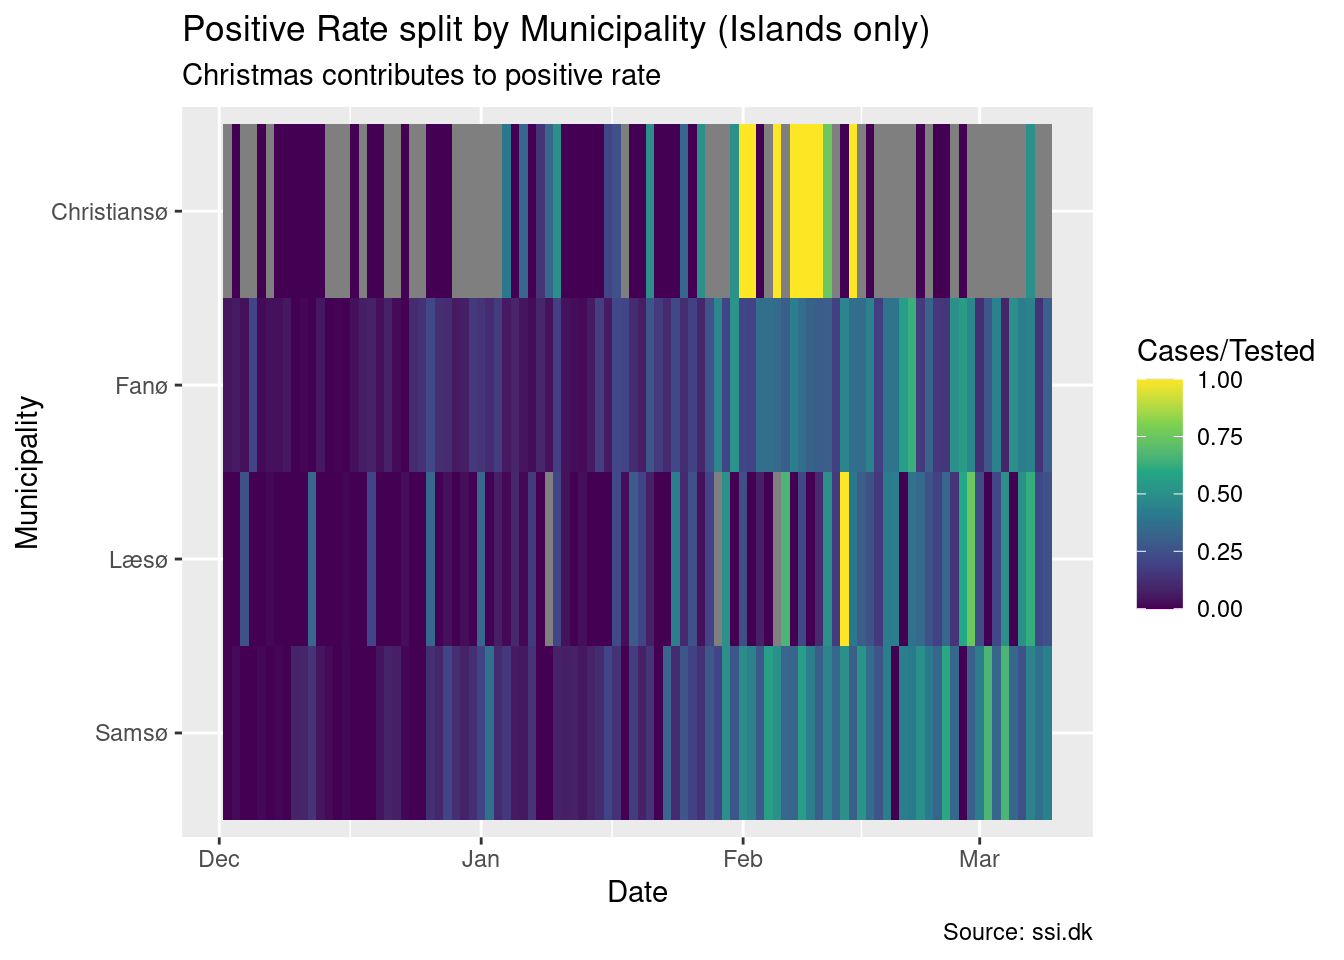
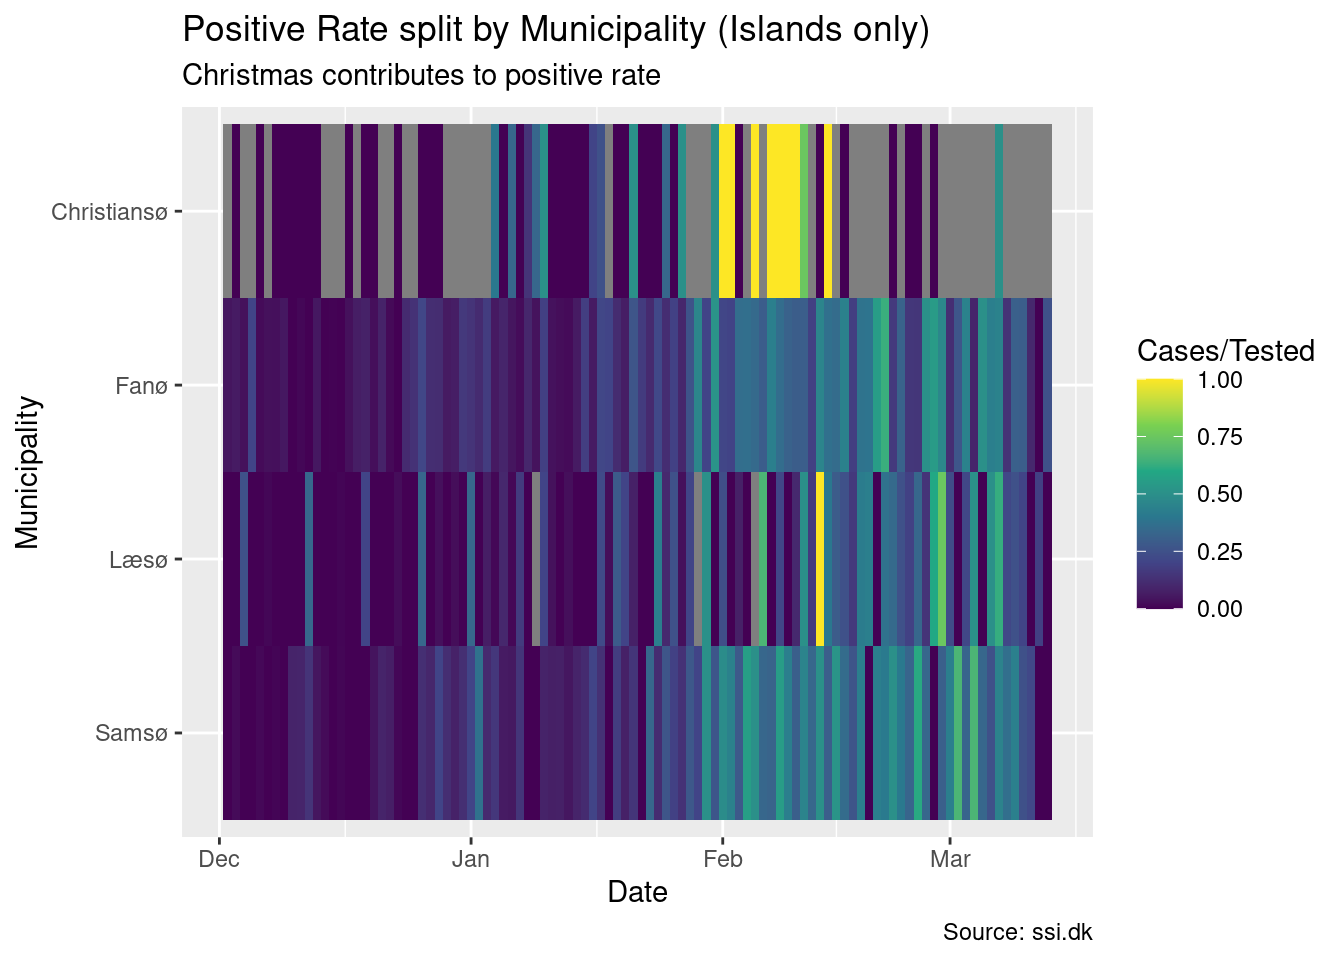
2022-03-15.

Changed region(s): [[0.25, 0.125, 0.7812, 0.9062], [0.2188, 0.5, 0.2812, 0.6875], [0.1875, 0.125, 0.2188, 0.3125]]

diff --git a/docs/index.html b/docs/index.html
@@ -10,7 +10,7 @@
 
 
 
-<meta name="date" content="2022-03-11" />
+<meta name="date" content="2022-03-15" />
 
 <title>Covid-19 Stats for Denmark</title>
 
@@ -261,7 +261,7 @@ $(document).ready(function () {
 
 
 <h1 class="title toc-ignore">Covid-19 Stats for Denmark</h1>
-<h4 class="date">2022-03-11</h4>
+<h4 class="date">2022-03-15</h4>
 
 </div>
 
@@ -308,7 +308,7 @@ $(document).ready(function () {
 <pre class="r"><code>library(tidyverse)
 library(lubridate)</code></pre>
 <p>SSI’s data is in a zip file. We unpack this zip file into a directory of the general form <code>YYYY-MM-DD</code>. Lets set up a name for the current directory we want to grab data from</p>
-<pre class="r"><code>date &lt;- &quot;2022-03-11&quot;</code></pre>
+<pre class="r"><code>date &lt;- &quot;2022-03-15&quot;</code></pre>
 </div>
 <div id="ingesting-data" class="section level2">
 <h2>Ingesting data</h2>
@@ -350,7 +350,7 @@ library(lubridate)</code></pre>
                                       ))</code></pre>
 <pre><code>## ℹ Using &quot;&#39;,&#39;&quot; as decimal and &quot;&#39;.&#39;&quot; as grouping mark. Use `read_delim()` for more control.</code></pre>
 <pre class="r"><code>data</code></pre>
-<pre><code>## # A tibble: 7,095 × 9
+<pre><code>## # A tibble: 7,129 × 9
 ##    Region      Prøvetagningsdato Køn   `Bekræftede tilfælde…`  Døde Indlæggelser
 ##    &lt;fct&gt;       &lt;date&gt;            &lt;fct&gt;                  &lt;dbl&gt; &lt;dbl&gt;        &lt;dbl&gt;
 ##  1 Sjælland    2020-02-26        M                          1     0            0
@@ -363,7 +363,7 @@ library(lubridate)</code></pre>
 ##  8 Hovedstaden 2020-03-03        F                          1     0            0
 ##  9 Hovedstaden 2020-03-03        M                          3     0            1
 ## 10 Hovedstaden 2020-03-04        M                          2     0            0
-## # … with 7,085 more rows, and 3 more variables: `Kummuleret antal døde` &lt;dbl&gt;,
+## # … with 7,119 more rows, and 3 more variables: `Kummuleret antal døde` &lt;dbl&gt;,
 ## #   `Kummuleret antal bekræftede tilfælde` &lt;dbl&gt;,
 ## #   `Kummuleret antal indlæggelser` &lt;dbl&gt;</code></pre>
 <p>We certainly don’t want to work with danish-named columns. Rather, we want small descriptive names which are easy to type. We send our dataset through a <code>rename</code> pass for this.</p>
@@ -378,7 +378,7 @@ library(lubridate)</code></pre>
 # Cut the cumulative columns away
 data &lt;- data %&gt;% select(region, date, gender, cases, deaths, hospitalizations)
 data</code></pre>
-<pre><code>## # A tibble: 7,095 × 6
+<pre><code>## # A tibble: 7,129 × 6
 ##    region      date       gender cases deaths hospitalizations
 ##    &lt;fct&gt;       &lt;date&gt;     &lt;fct&gt;  &lt;dbl&gt;  &lt;dbl&gt;            &lt;dbl&gt;
 ##  1 Sjælland    2020-02-26 M          1      0                0
@@ -391,7 +391,7 @@ data</code></pre>
 ##  8 Hovedstaden 2020-03-03 F          1      0                0
 ##  9 Hovedstaden 2020-03-03 M          3      0                1
 ## 10 Hovedstaden 2020-03-04 M          2      0                0
-## # … with 7,085 more rows</code></pre>
+## # … with 7,119 more rows</code></pre>
 <p>Provide a low cut-off. We are interested in the recent period with Omicron, rather than the full duration of Covid-19.</p>
 <pre class="r"><code>lo_cutoff &lt;- &#39;2021-09-01&#39;</code></pre>
 <p>The high end of that cutoff, we set to two days before the maximal date in our data set</p>
@@ -405,7 +405,7 @@ data</code></pre>
 # Put this into the summary
 summary &lt;- data
 summary</code></pre>
-<pre><code>## # A tibble: 1,890 × 6
+<pre><code>## # A tibble: 1,930 × 6
 ##    region      date       gender cases deaths hospitalizations
 ##    &lt;fct&gt;       &lt;date&gt;     &lt;fct&gt;  &lt;dbl&gt;  &lt;dbl&gt;            &lt;dbl&gt;
 ##  1 Hovedstaden 2021-09-01 F        215      0                7
@@ -418,7 +418,7 @@ summary</code></pre>
 ##  8 Nordjylland 2021-09-01 M         16      1                2
 ##  9 Sjælland    2021-09-01 M         39      0                3
 ## 10 Syddanmark  2021-09-01 M         41      0                1
-## # … with 1,880 more rows</code></pre>
+## # … with 1,920 more rows</code></pre>
 </div>
 <div id="weekly-key-figures-split-by-age" class="section level3">
 <h3>Weekly key figures split by age</h3>
@@ -443,7 +443,7 @@ summary</code></pre>
                         tested = &#39;Antal testede&#39;,
                         cases = &#39;Antal positive&#39;)
 data</code></pre>
-<pre><code>## # A tibble: 967 × 7
+<pre><code>## # A tibble: 976 × 7
 ##    week     ageGroup tested_100k cases_100k hospitalized_100k tested cases
 ##    &lt;chr&gt;    &lt;fct&gt;          &lt;dbl&gt;      &lt;dbl&gt;             &lt;dbl&gt;  &lt;dbl&gt; &lt;dbl&gt;
 ##  1 2020-W04 00-02              0          0                 0      0     0
@@ -456,7 +456,7 @@ data</code></pre>
 ##  8 2020-W04 65-79              0          0                 0      0     0
 ##  9 2020-W04 80+                0          0                 0      0     0
 ## 10 2020-W05 65-79              0          0                 0      1     0
-## # … with 957 more rows</code></pre>
+## # … with 966 more rows</code></pre>
 <p>Take a look at the <code>week</code> column. It reports a year, and a week number. We’ll need to handle this, by converting this into a date. We’ll do that by defining a fixup function. If we have a string such as <code>2020-W04</code>, it means the 4th week of 2020. To get a date, we need a day inside the week to use as the day-of-week. So we turn the string into <code>2020-W04-1</code>, then send it through <code>strptime()</code>, a general time-parsing function.</p>
 <pre class="r"><code>fixup_week &lt;- function(s) {
     # For strptime to do its work correctly, it must know a day of the week. Here, we
@@ -509,15 +509,15 @@ data</code></pre>
 ##     lau1 name       `Bekræftede ti…` Incidens cases incidence tested tested_100k
 ##    &lt;dbl&gt; &lt;fct&gt;                 &lt;dbl&gt;    &lt;dbl&gt; &lt;dbl&gt;     &lt;dbl&gt;  &lt;dbl&gt;       &lt;dbl&gt;
 ##  1   411 &quot;&quot;                        0       NA     0        0      93      102000
-##  2   101 &quot;Københav…           357777    55753  7189     1120  658962      103000
-##  3   147 &quot;Frederik…            55149    53402  1331     1289  112596      109000
-##  4   151 &quot;Ballerup&quot;            26562    53893   724     1469   50263      102000
-##  5   153 &quot;Brøndby&quot;             20196    56594   355      995.  36327      102000
-##  6   155 &quot;Dragør&quot;               7691    52779   182     1249   14597      100000
-##  7   157 &quot;Gentofte&quot;            37914    51263   925     1251   76344      103000
-##  8   159 &quot;Gladsaxe&quot;            37470    54173   894     1293   72390      105000
-##  9   161 &quot;Glostrup&quot;            12746    54421   265     1131   24495      105000
-## 10   163 &quot;Herlev&quot;              16345    56777   385     1337   29894      104000
+##  2   101 &quot;Københav…           360089    56114  6018      938. 659290      103000
+##  3   147 &quot;Frederik…            55551    53791  1079     1045  112669      109000
+##  4   151 &quot;Ballerup&quot;            26772    54319   539     1094   50286      102000
+##  5   153 &quot;Brøndby&quot;             20352    57031   308      863.  36358      102000
+##  6   155 &quot;Dragør&quot;               7780    53390   158     1084   14603      100000
+##  7   157 &quot;Gentofte&quot;            38158    51593   730      987   76383      103000
+##  8   159 &quot;Gladsaxe&quot;            37708    54517   688      995.  72423      105000
+##  9   161 &quot;Glostrup&quot;            12861    54912   250     1067   24523      105000
+## 10   163 &quot;Herlev&quot;              16509    57347   333     1157   29915      104000
 ## # … with 89 more rows, and 3 more variables: tested_1w &lt;dbl&gt;,
 ## #   tested_100k_1w &lt;dbl&gt;, population &lt;dbl&gt;</code></pre>
 <pre class="r"><code>muncipalities &lt;- data</code></pre>
@@ -699,21 +699,21 @@ muncipalities$incidence_type &lt;- ifelse(muncipalities$incidence_z &lt; 0, &quo
 muncipalities$rate_z &lt;- round(muncipalities$rate - mean(muncipalities$rate), 5)
 muncipalities$rate_type &lt;- ifelse(muncipalities$rate_z &lt; 0, &quot;Below mean&quot;, &quot;Above mean&quot;)
 muncipalities$rate</code></pre>
-<pre><code>##  [1] 0.0000000 0.2297025 0.2569498 0.2380013 0.1919957 0.2219512 0.2477236
-##  [8] 0.2389097 0.1938552 0.2224148 0.2124814 0.2166499 0.1961276 0.2699900
-## [15] 0.2192586 0.1650718 0.2308020 0.2000000 0.2631820 0.2472989 0.2310406
-## [22] 0.2413574 0.2389477 0.2468588 0.2496811 0.2739828 0.2806822 0.2495310
-## [29] 0.2619624 0.2610504 0.2756871 0.2699681 0.2492594 0.3049918 0.2838725
-## [36] 0.2809195 0.3349118 0.3147268 0.2492857 0.2631126 0.3033233 0.2591864
-## [43] 0.2126210 0.2601593 0.2419920 0.2800462 0.2589862 0.2946809 0.3611765
-## [50] 0.3344401 0.3172257 0.2694737 0.2659446 0.2843137 0.3202247 0.3437908
-## [57] 0.3528529 0.3068381 0.3220339 0.2630290 0.3159521 0.3349705 0.2948207
-## [64] 0.3686604 0.3645694 0.2791487 0.2768087 0.3476342 0.3148337 0.3235547
-## [71] 0.3509985 0.3275252 0.4154663 0.3600289 0.3208923 0.3719893 0.3334413
-## [78] 0.3312846 0.3384451 0.3390210 0.4325843 0.3397401 0.3153484 0.3599222
-## [85] 0.3918379 0.3522484 0.3478261 0.3620302 0.3635526 0.3470290 0.3505386
-## [92] 0.3366683 0.3276776 0.2584270 0.3587553 0.3523768 0.3610354 0.3180609
-## [99] 0.3342161</code></pre>
+<pre><code>##  [1] 0.0000000 0.2144843 0.2389812 0.1970750 0.1770115 0.2237960 0.2209443
+##  [8] 0.2065446 0.1957713 0.2065757 0.2106061 0.1772537 0.1821024 0.2562738
+## [15] 0.1957203 0.1530945 0.2110228 0.1982544 0.2432575 0.2309879 0.2174125
+## [22] 0.2293640 0.2128244 0.2330335 0.2336656 0.2536356 0.2501030 0.2221298
+## [29] 0.2266395 0.2209502 0.2495238 0.2222222 0.2360577 0.2870006 0.2626656
+## [36] 0.2866208 0.3200732 0.3097726 0.2370022 0.2389381 0.2942359 0.2552574
+## [43] 0.2037511 0.2337366 0.2308620 0.2808475 0.2614355 0.2806227 0.3160355
+## [50] 0.3238129 0.2881016 0.2643849 0.2442018 0.2616921 0.2977049 0.3369231
+## [57] 0.3915547 0.2914420 0.3122901 0.2494226 0.2924489 0.3154781 0.2644231
+## [64] 0.3372268 0.3221406 0.2758534 0.2663827 0.3043569 0.2802330 0.2944360
+## [71] 0.3329519 0.2889833 0.3712737 0.3463882 0.3037608 0.3509590 0.3102246
+## [78] 0.2770468 0.3085150 0.3129504 0.3734177 0.3025129 0.2851486 0.3500000
+## [85] 0.3709987 0.3210432 0.3457312 0.3196941 0.3352133 0.3128660 0.3209424
+## [92] 0.3111441 0.3001319 0.2582781 0.3202329 0.3196763 0.3429027 0.2929942
+## [99] 0.2945879</code></pre>
 <pre class="r"><code>ggplot(muncipalities %&gt;% mutate(name = fct_reorder(name, rate)), aes(x=name, y=rate)) +
   geom_bar(stat=&#39;identity&#39;, aes(fill=rate_type), width=.5)  +
   scale_colour_brewer(palette=&quot;Set2&quot;) +
@@ -773,15 +773,15 @@ popcount</code></pre>
 ##    name            incidence popcount
 ##    &lt;chr&gt;               &lt;dbl&gt;    &lt;dbl&gt;
 ##  1 &quot;&quot;                     0        NA
-##  2 &quot;København&quot;         1120    644987
-##  3 &quot;Frederiksberg&quot;     1289    103963
-##  4 &quot;Ballerup&quot;          1469     49228
-##  5 &quot;Brøndby&quot;            995.    35535
-##  6 &quot;Dragør&quot;            1249     14602
-##  7 &quot;Gentofte&quot;          1251     74154
-##  8 &quot;Gladsaxe&quot;          1293     69321
-##  9 &quot;Glostrup&quot;          1131     23519
-## 10 &quot;Herlev&quot;            1337     28861
+##  2 &quot;København&quot;          938.   644987
+##  3 &quot;Frederiksberg&quot;     1045    103963
+##  4 &quot;Ballerup&quot;          1094     49228
+##  5 &quot;Brøndby&quot;            863.    35535
+##  6 &quot;Dragør&quot;            1084     14602
+##  7 &quot;Gentofte&quot;           987     74154
+##  8 &quot;Gladsaxe&quot;           995.    69321
+##  9 &quot;Glostrup&quot;          1067     23519
+## 10 &quot;Herlev&quot;            1157     28861
 ## # … with 89 more rows</code></pre>
 <p>Now, test correlation via Pearson:</p>
 <pre class="r"><code>plot(muncipalities$incidence, muncipalities$popcount)</code></pre>
@@ -791,13 +791,13 @@ popcount</code></pre>
 ##  Pearson&#39;s product-moment correlation
 ## 
 ## data:  muncipalities$incidence and muncipalities$popcount
-## t = -1.5399, df = 92, p-value = 0.127
+## t = -1.6806, df = 92, p-value = 0.09624
 ## alternative hypothesis: true correlation is not equal to 0
 ## 95 percent confidence interval:
-##  -0.3498924  0.0455674
+##  -0.36252268  0.03112281
 ## sample estimates:
 ##        cor 
-## -0.1585131</code></pre>
+## -0.1725825</code></pre>
 <p>Clearly, this argues there are no strong connection between population count, and the incidence in a given muncipality.</p>
 <p>Analyzing the rate shows there’s a connection between it and incidence, but this is more expected:</p>
 <pre class="r"><code>pairs(muncipalities %&gt;% select(incidence,popcount,rate))</code></pre>
@@ -807,17 +807,17 @@ popcount</code></pre>
 ##  Pearson&#39;s product-moment correlation
 ## 
 ## data:  muncipalities$incidence and muncipalities$rate
-## t = 13.767, df = 97, p-value &lt; 2.2e-16
+## t = 14.823, df = 97, p-value &lt; 2.2e-16
 ## alternative hypothesis: true correlation is not equal to 0
 ## 95 percent confidence interval:
-##  0.7336920 0.8708902
+##  0.7605513 0.8848312
 ## sample estimates:
 ##       cor 
-## 0.8133051</code></pre>
+## 0.8329087</code></pre>
 <p>Summarize:</p>
 <pre class="r"><code>summary(muncipalities$rate)</code></pre>
 <pre><code>##    Min. 1st Qu.  Median    Mean 3rd Qu.    Max. 
-##  0.0000  0.2494  0.2843  0.2909  0.3376  0.4326</code></pre>
+##  0.0000  0.2309  0.2770  0.2701  0.3126  0.3916</code></pre>
 <pre class="r"><code>d &lt;- density(muncipalities$rate)
 plot(d)</code></pre>
 <p><img src="index_files/figure-html/muncipality-summary-1.png" width="672" /></p>

diff --git a/docs/core.html b/docs/core.html
@@ -10,7 +10,7 @@
 
 
 
-<meta name="date" content="2022-03-11" />
+<meta name="date" content="2022-03-15" />
 
 <title>Core Covid-19 Stats for Denmark</title>
 
@@ -261,7 +261,7 @@ $(document).ready(function () {
 
 
 <h1 class="title toc-ignore">Core Covid-19 Stats for Denmark</h1>
-<h4 class="date">2022-03-11</h4>
+<h4 class="date">2022-03-15</h4>
 
 </div>
 
@@ -325,7 +325,7 @@ rt_cases</code></pre>
 <pre class="r"><code>m_cases_timeseries_path &lt;- sprintf(&quot;%s/Municipality_cases_time_series.csv&quot;, path)
 m_cases_timeseries &lt;- readr::read_csv2(m_cases_timeseries_path)
 m_cases_timeseries</code></pre>
-<pre><code>## # A tibble: 744 × 101
+<pre><code>## # A tibble: 748 × 101
 ##    SampleDate Roskilde Copenhagen Aarhus Frederiksberg Kalundborg Middelfart
 ##    &lt;date&gt;        &lt;dbl&gt;      &lt;dbl&gt;  &lt;dbl&gt;         &lt;dbl&gt;      &lt;dbl&gt;      &lt;dbl&gt;
 ##  1 2020-02-26        1          0      0             0          0          0
@@ -338,7 +338,7 @@ m_cases_timeseries</code></pre>
 ##  8 2020-03-05        0          2      0             2          0          0
 ##  9 2020-03-06        0          0      0             0          0          0
 ## 10 2020-03-07        0          1      1             1          0          0
-## # … with 734 more rows, and 94 more variables: Gentofte &lt;dbl&gt;, Solrød &lt;dbl&gt;,
+## # … with 738 more rows, and 94 more variables: Gentofte &lt;dbl&gt;, Solrød &lt;dbl&gt;,
 ## #   Allerød &lt;dbl&gt;, Dragør &lt;dbl&gt;, Helsingør &lt;dbl&gt;, Hillerød &lt;dbl&gt;,
 ## #   Rudersdal &lt;dbl&gt;, Næstved &lt;dbl&gt;, Aalborg &lt;dbl&gt;, Vallensbæk &lt;dbl&gt;,
 ## #   Esbjerg &lt;dbl&gt;, Favrskov &lt;dbl&gt;, Frederikssund &lt;dbl&gt;, Furesø &lt;dbl&gt;,
@@ -351,7 +351,7 @@ m_cases_timeseries</code></pre>
   rename(date = `SampleDate`)
 
 m_cases_timeseries</code></pre>
-<pre><code>## # A tibble: 74,400 × 3
+<pre><code>## # A tibble: 74,800 × 3
 ##    date       Municipality  Cases
 ##    &lt;date&gt;     &lt;chr&gt;         &lt;dbl&gt;
 ##  1 2020-02-26 Roskilde          1
@@ -364,7 +364,7 @@ m_cases_timeseries</code></pre>
 ##  8 2020-02-26 Solrød            0
 ##  9 2020-02-26 Allerød           0
 ## 10 2020-02-26 Dragør            0
-## # … with 74,390 more rows</code></pre>
+## # … with 74,790 more rows</code></pre>
 <p>We use the same strategy for the tests:</p>
 <pre class="r"><code>m_tested_timeseries_path &lt;- sprintf(&quot;%s/Municipality_tested_persons_time_series.csv&quot;, path)
 m_tested_timeseries &lt;- readr::read_csv2(m_tested_timeseries_path)
@@ -375,7 +375,7 @@ m_tested_timeseries &lt;- m_tested_timeseries %&gt;%
 <pre class="r"><code>municipality &lt;- m_cases_timeseries %&gt;% left_join(m_tested_timeseries, by = c(&quot;date&quot;, &quot;Municipality&quot;))
 municipality &lt;- municipality %&gt;% mutate(Municipality = factor(Municipality))
 municipality</code></pre>
-<pre><code>## # A tibble: 74,400 × 4
+<pre><code>## # A tibble: 74,800 × 4
 ##    date       Municipality  Cases Tested
 ##    &lt;date&gt;     &lt;fct&gt;         &lt;dbl&gt;  &lt;dbl&gt;
 ##  1 2020-02-26 Roskilde          1      3
@@ -388,7 +388,7 @@ municipality</code></pre>
 ##  8 2020-02-26 Solrød            0      0
 ##  9 2020-02-26 Allerød           0      0
 ## 10 2020-02-26 Dragør            0      0
-## # … with 74,390 more rows</code></pre>
+## # … with 74,790 more rows</code></pre>
 </div>
 </div>
 <div id="plots-of-interest" class="section level2">
